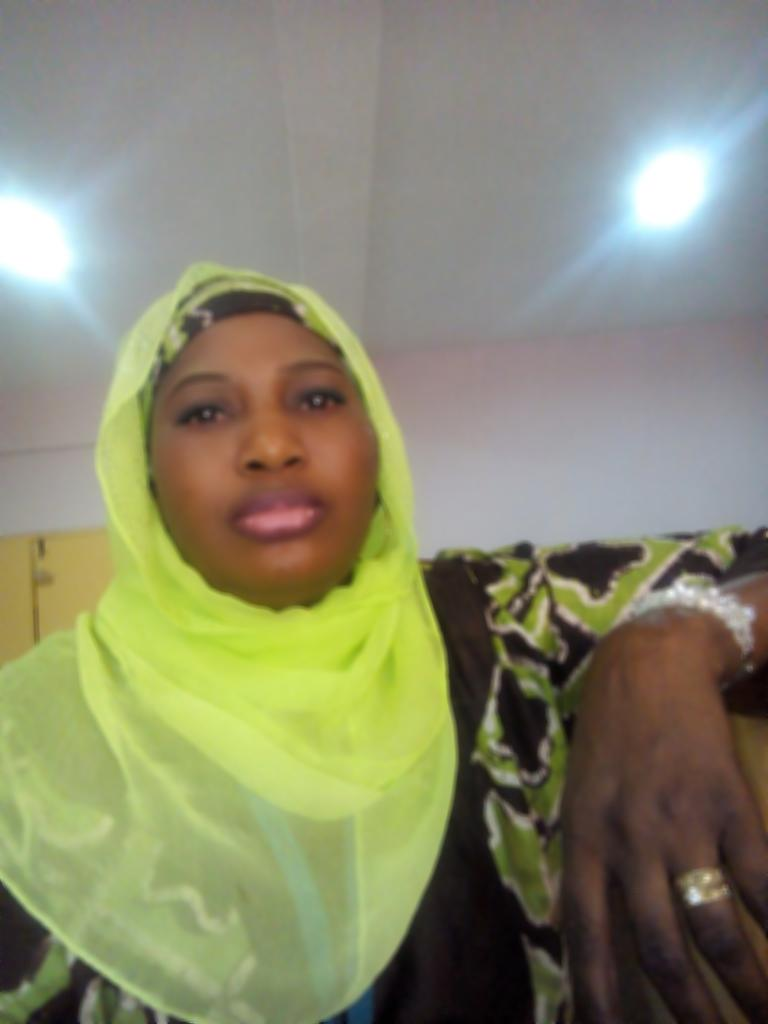
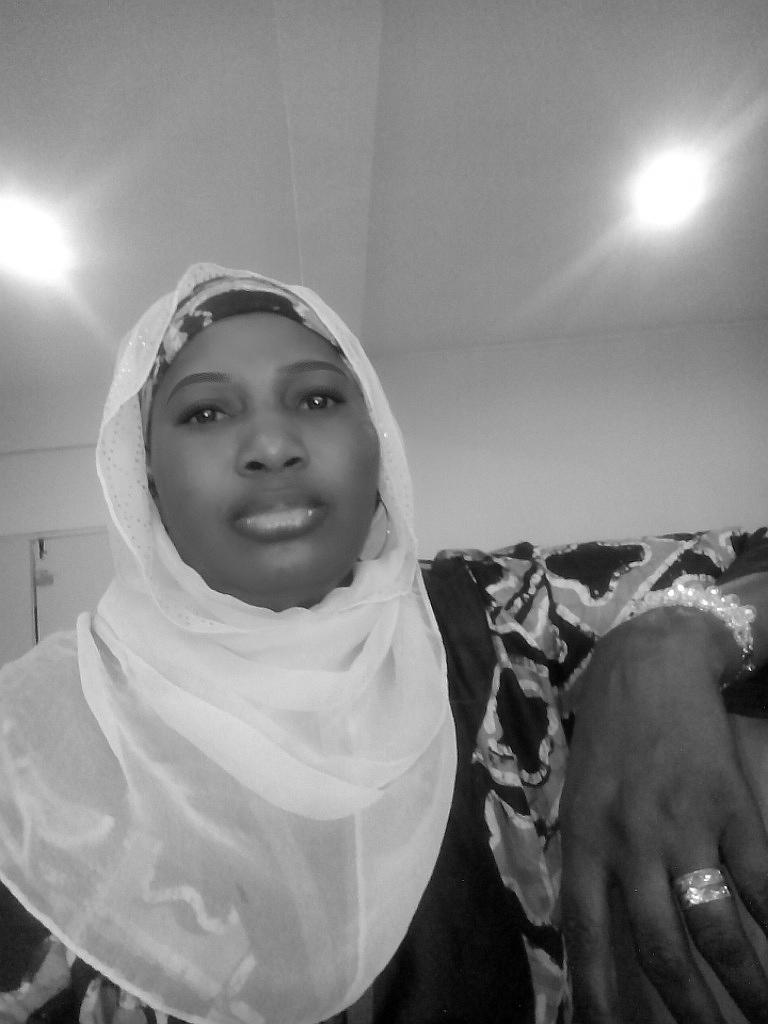
Edited images

diff --git a/img_editor/image_editor.py b/img_editor/image_editor.py
@@ -7,7 +7,7 @@ edited_images = '/edited_images'
 for filename in os.listdir(images):
     img = Image.open(f"{images}/{filename}")
     
-    edit = img.filter(ImageFilter.BLUR)
+    edit = img.filter(ImageFilter.SHARPEN).convert("L")
     
     clean_name = os.path.splitext(filename)[0]
     
